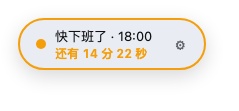
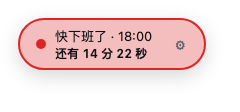
feat: give the heads-up state the reminder colour, at low strength
The accent palette only ever coloured the due state. Someone who picked
blue or violet got an amber pill the moment the shift entered its lead
window, so the setting looked like it did nothing until the shift ended —
which is what a user reported.

`soon` now takes the same accent as `due`, tinted 30% into the page
background, with the countdown left in label-primary. One rule serves both
themes: a tint of the accent lands pale on the white page and deep on the
near-black one, so the card reads as a step between working and due rather
than as a different colour system.

Tinting the card instead of colouring the text is not a stylistic choice.
On the pill surface (bg-overlay) the raw accents span 1.02-4.82:1, and the
dark theme's surface is the mid grey #61666b, where a saturated accent falls
to ~1.1:1 — it cannot carry 12px type in any of the nine presets.

This also fixes a defect that predates the change: the old amber heading was
1.81:1 in the light theme and 2.70:1 in the dark one, against the 4.5:1 that
12px text needs. The theme ink on the tinted card now measures 9.51:1 at
worst across all presets and both themes.

The waiting state keeps the amber token: "you have not clocked in yet" is a
different message from "your shift is ending", and tying it to the reminder
colour would say the wrong thing.

diff --git a/client.js b/client.js
@@ -14,7 +14,8 @@
  *              The pill shows the start time and a 「打卡」 button, which is
  *              itself the reminder to clock in.
  *   working  — clocked in, before the heads-up window; quiet, theme-token colours
- *   soon     — inside the heads-up window (default 15 min); warn accent
+ *   soon     — inside the heads-up window (default 15 min); the accent tinted
+ *              into the card at low strength, same colour as `due` below
  *   due      — the shift has ended; the accent colour fills the card and the pill
  *              breathes. Shown whether or not the day was clocked in: forgetting
  *              to clock in must not cost the user the reminder that matters most.
@@ -2060,10 +2061,20 @@ window.__ModuleLoader__.load({
 .dsh-offwork-waiting .dsh-offwork-action{background:var(--dsw-alias-state-warn-primary);color:#27241f;font-weight:600}
 .dsh-offwork-waiting .dsh-offwork-action:hover{filter:brightness(1.06)}
 
-/* ---- soon: the heads-up window, warn accent ----------------------------- */
-.dsh-offwork-soon{border-color:var(--dsw-alias-state-warn-primary)}
-.dsh-offwork-soon .dsh-offwork-dot{background:var(--dsw-alias-state-warn-primary)}
-.dsh-offwork-soon .dsh-offwork-clock{color:var(--dsw-alias-state-warn-primary);font-weight:600}
+/* ---- soon: the heads-up window, the accent at low strength -------------- */
+/* The heads-up state belongs to the same ramp as "due", so it carries the same
+   accent — just far weaker: the card takes a 30% tint of it and the countdown
+   stays in label-primary. Two reasons it is not the accent as text:
+   on the pill surface (bg-overlay) a saturated accent is only 1.02-4.82:1, and
+   in the dark theme that surface is the mid grey #61666b, where a raw accent
+   drops to ~1.1:1 and simply cannot carry 12px type. Tinting the CARD instead
+   keeps the accent visible without putting legible text at risk.
+   Mixing into bg-base (not bg-overlay) is what makes one rule serve both
+   themes: the tint lands pale on a white page and deep on a near-black one,
+   which is the direction each theme needs. */
+.dsh-offwork-soon{border-color:var(--dsh-offwork-accent);background:color-mix(in srgb, var(--dsh-offwork-accent) 30%, var(--dsw-alias-bg-base, var(--dsw-alias-bg-overlay, #ffffff)))}
+.dsh-offwork-soon .dsh-offwork-dot{background:var(--dsh-offwork-accent)}
+.dsh-offwork-soon .dsh-offwork-clock{color:var(--dsw-alias-label-primary);font-weight:600}
 
 /* ---- due: the accent fills the card, and the pill breathes -------------- */
 .dsh-offwork-due{border-color:var(--dsh-offwork-accent);background:var(--dsh-offwork-accent);color:var(--dsh-offwork-ink);box-shadow:0 6px 24px color-mix(in srgb, var(--dsh-offwork-accent) 55%, transparent);animation:dsh-offwork-breathe var(--dsh-offwork-pulse, 1.8s) ease-in-out infinite}

diff --git a/README.en.md b/README.en.md
@@ -4,7 +4,7 @@
 
 [中文](README.md) | **English**
 
-A small pill in the corner of the interface that walks a workday with you: it prompts you to clock in when your shift starts, counts down quietly, turns amber as the end approaches, and fills with colour, breathes and shakes when it is time to leave.
+A small pill in the corner of the interface that walks a workday with you: it prompts you to clock in when your shift starts, counts down quietly, takes your reminder colour as the end approaches, and fills with it, breathes and shakes when it is time to leave.
 
 | Clock in | Countdown |
 | :---: | :---: |
@@ -23,7 +23,7 @@ A small pill in the corner of the interface that walks a workday with you: it pr
 - **Clock in** — at your shift's start time the pill shows a "Clock in" button, which is itself the reminder to do it. One click covers the whole day; a refresh or restart remembers it. Changing the shift's times makes it a different shift, so it asks again — and the settings card says so the moment you do it.
   - The button names the **action** (Clock in), not the state (Clocked in) — it is asking you to press it, not reporting.
 - **Countdown** — after clocking in it counts down quietly in the corner.
-- **Heads-up** — inside the lead window (15 minutes by default) the border and the countdown switch to a warning colour.
+- **Heads-up** — inside the lead window (15 minutes by default) the border and the background take your reminder colour at a lighter strength; it only goes full when the time comes.
 - **Clock-out reminder** — the whole card fills with your accent colour, breathes and shakes, and a "Got it" button dismisses it for the day.
   - Shown whether or not you clocked in: forgetting to clock in must not cost you the one reminder that matters most.
 - **Reminder window** — the reminder lasts a bounded time (4 hours by default), then goes quiet, so an 18:00 finish does not nag you at midnight.

diff --git a/README.md b/README.md
@@ -4,7 +4,7 @@
 
 [English](README.en.md) | **中文**
 
-一个挂在界面角落的小胶囊，按你的班次走完一天：到上班时间提醒打卡，打卡后安静倒计时，快下班时换成警告色，到点后整块变色、呼吸、抖动 —— 提醒你别忘了打卡。
+一个挂在界面角落的小胶囊，按你的班次走完一天：到上班时间提醒打卡，打卡后安静倒计时，快下班时先染一层提醒色，到点后整块填满、呼吸、抖动 —— 提醒你别忘了打卡。
 
 | 上班打卡 | 下班倒计时 |
 | :---: | :---: |
@@ -23,7 +23,7 @@
 - **上班打卡** —— 到设定的上班时间，挂件显示「打卡」按钮，这本身就是提醒你要打卡。点一次记一整天，刷新、重开都记得；改了上下班时间相当于换了一个班次，需要重新点一次 —— 设置页会当场提示你。
   - 按钮写的是**动作**（打卡），不是状态（已打卡）—— 它要你点，不是在汇报。
 - **下班倒计时** —— 打卡后开始倒计时，安静地待在角落。
-- **快下班了** —— 进入提前提醒窗口（默认 15 分钟），边框和倒计时换成警告色。
+- **快下班了** —— 进入提前提醒窗口（默认 15 分钟），边框和底色换成你设的提醒色（浅色一档，到点才满）。
 - **下班提醒** —— 到点后整张卡片填满提醒色、呼吸、抖动，并给出「知道了」按钮。点一下当天收起。
   - 无论是否打过卡都会提醒 —— 忘了打卡不该让你错过最重要的那条提醒。
 - **提醒有效期** —— 下班后最多提醒一段时间（默认 4 小时），超时自动安静，不会半夜还挂着。

diff --git a/docs/detail.en.md b/docs/detail.en.md
@@ -4,7 +4,7 @@ The pill walks a workday with you:
 | --- | --- |
 | Shift started | "09:00" with a **Clock in** button |
 | Counting down | "Ends 18:00" and the time left |
-| Nearly done | The countdown switches to a warning colour |
+| Nearly done | Border and background take the reminder colour, at a lighter strength |
 | Time to leave | The card fills with colour, breathes and shakes, with a **Got it** button |
 | Off the clock | The next shift, such as "Starts tomorrow at 09:00" |
 

diff --git a/docs/detail.zh.md b/docs/detail.zh.md
@@ -4,7 +4,7 @@
 | --- | --- |
 | 上班打卡 | 「09:00 上班」和「打卡」按钮 |
 | 下班倒计时 | 「18:00 下班」和剩余时间 |
-| 快下班了 | 倒计时换成警告色 |
+| 快下班了 | 边框和底色换成提醒色（浅一档） |
 | 下班提醒 | 整块变色、呼吸、抖动，附带「知道了」 |
 | 班次之外 | 下一次上班时间，如「明天 09:00 上班」 |
 
